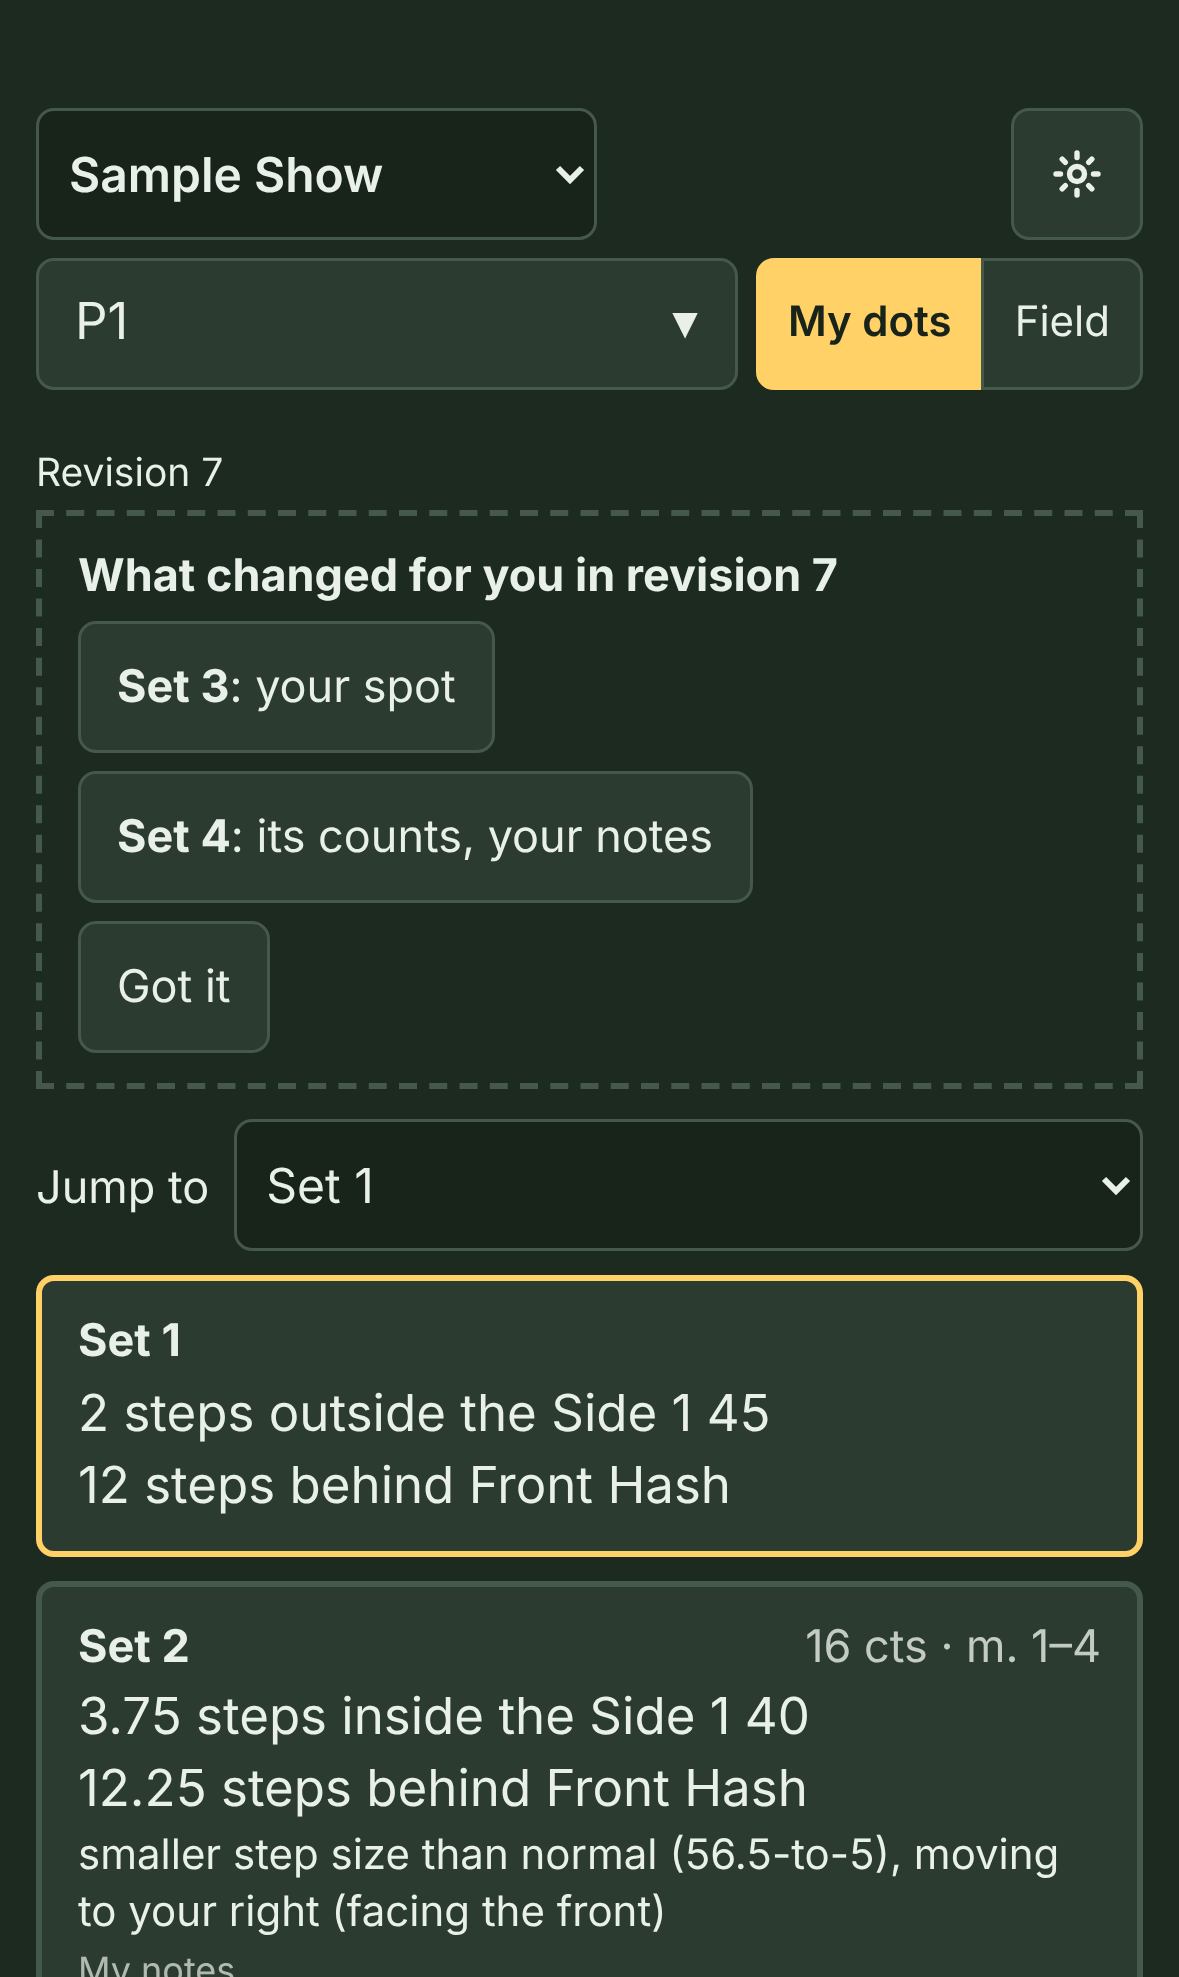
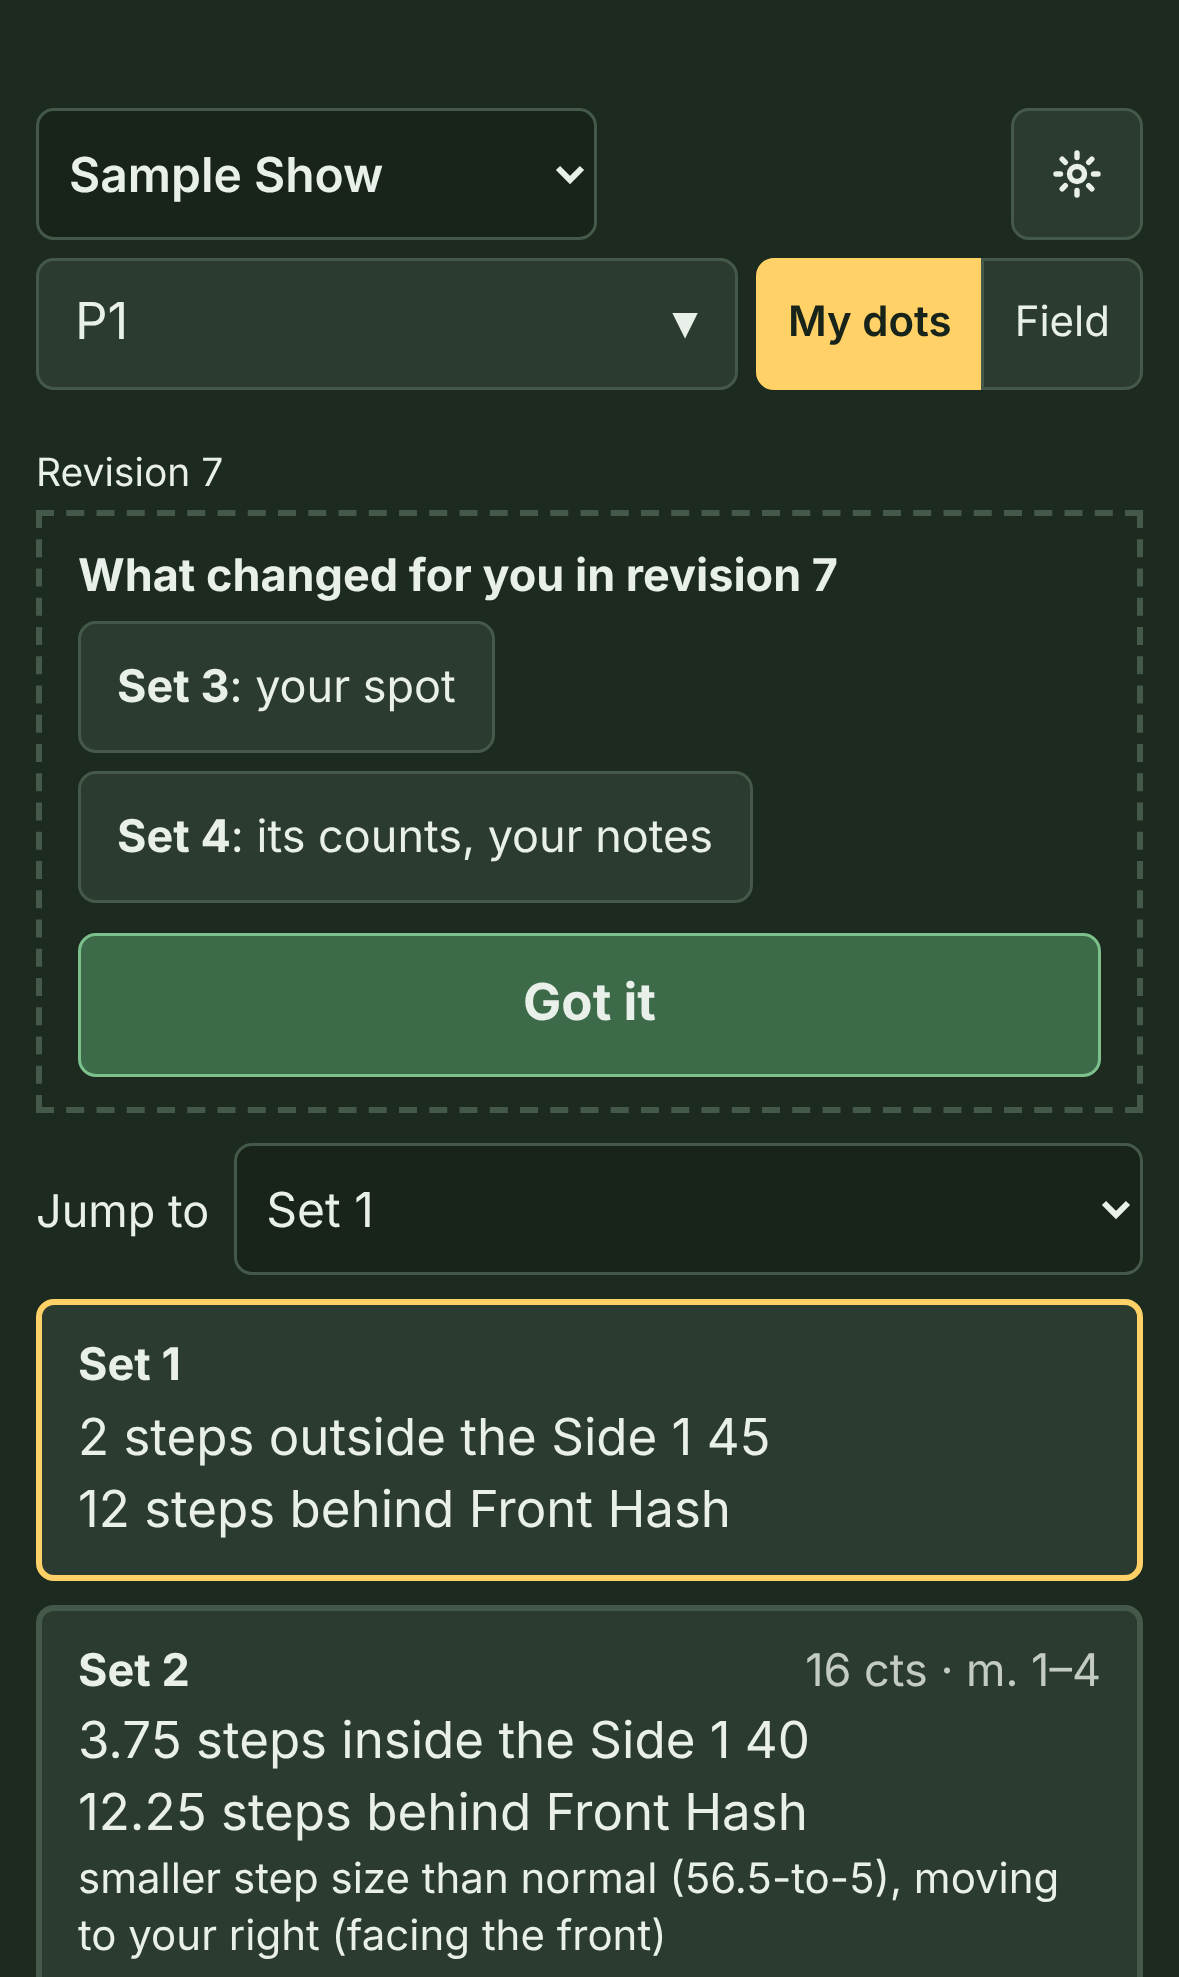
Make Got it the obvious button in "What changed for you"
It looked like the set buttons above it. Now it's the box's one main
button: green, full width, taller, and bold.

Claude-Session: https://claude.ai/code/session_012ak5ZVasTBVPmwBu7ehX7k

Changed region(s): [[0.0305, 0.4628, 0.9771, 1.0]]

diff --git a/app/index.html b/app/index.html
@@ -166,6 +166,7 @@
       .perform-help { margin: 16px 0 8px; font-size: 15px; }
       .perform-changed { display: grid; gap: 6px; margin: 0 0 10px; padding: 10px 12px; font-size: 15px; border: 2px dashed var(--line-strong); } /* what the last update changed: dashed, and said in words */
       .perform-changed > button { justify-self: start; min-height: 44px; font-size: 15px; text-align: left; }
+      .perform-changed > .perform-gotit { justify-self: stretch; min-height: 48px; margin-top: 4px; font-size: 17px; font-weight: 700; text-align: center; }
       .perform-jump { display: flex; align-items: center; gap: 8px; margin: 0 0 8px; font-size: 15px; }
       .perform-jump select { flex: 1; min-height: 44px; font-size: 16px; }
       .dot-row[data-changed] { border-style: dashed; } /* changed in the last update (the card also says so in words) */

diff --git a/src/perform/Perform.tsx b/src/perform/Perform.tsx
@@ -540,7 +540,7 @@ export function Perform() {
                 <strong>{tr('Set {name}', { name: show.sets[i].name })}</strong>: {c.what.map(whatWords).join(', ')}</button>;
             })}
             {changed.gone.length > 0 && <span>{tr('Sets taken out: {list}.', { list: listOf(changed.gone) })}</span>}
-            <button onClick={() => update({ changed: undefined })}>{tr('Got it')}</button>
+            <button className="primary perform-gotit" onClick={() => update({ changed: undefined })}>{tr('Got it')}</button>{/* the one main button here: full width, so it reads as the way to finish */}
           </div>
         )}
         {/* "Start at 12B": straight to a set (or its measures), instead of scrolling a long show. */}

diff --git a/DECISIONS.md b/DECISIONS.md
@@ -606,3 +606,9 @@ Recent decisions are here. Older ones are in [docs/decisions/](docs/decisions/),
   - It shows in three places: the line at the top ("Updated to revision 7. Your part changed in sets 8 and 9. See My dots."), a box at the top of **My dots** with a button per set, and **Changed:** in words plus a dashed outline on each changed card (never color alone). Staff (whole band) get the line, listing the sets that changed for anyone.
   - **Jump to** is a plain set picker at the top of **My dots**, each choice with its measures ("Set 12B · m. 45–52"). A phone's own picker is big, scrolls fast, and works with VoiceOver. The card goes to the top of the list.
 - **Other options:** compare by set name or position (renaming or adding a set would mark everything after it changed); flag every set where *anyone* changed for performers too (a trumpet doesn't need to relearn the guard's move); type a set name or measure to jump (a keyboard on a phone outdoors is slower than a picker); put **Jump to** on the field too (the set buttons under the field already scroll; it can follow if students ask).
+
+## 2026-11-19 13:30 EST: Got it stands out
+- **Who:** Jason asked for a more obvious **Got it** in the phone's "What changed for you" box. The styling is Claude's (*Jason can veto*).
+- **Context:** It looked like the set buttons above it, so a student could miss it, and the box (and the dashed outline on changed cards) stays until it's tapped.
+- **Other options:** gold, like a pressed button (gold already means "on" or "the set you're on" on the phone); move it to the top of the box (students should see what changed before clearing it).
+- **Decision:** **Got it** is the box's one main button: the green of other main buttons, the full width of the box, taller (48 px), and bold. It stays at the bottom.
